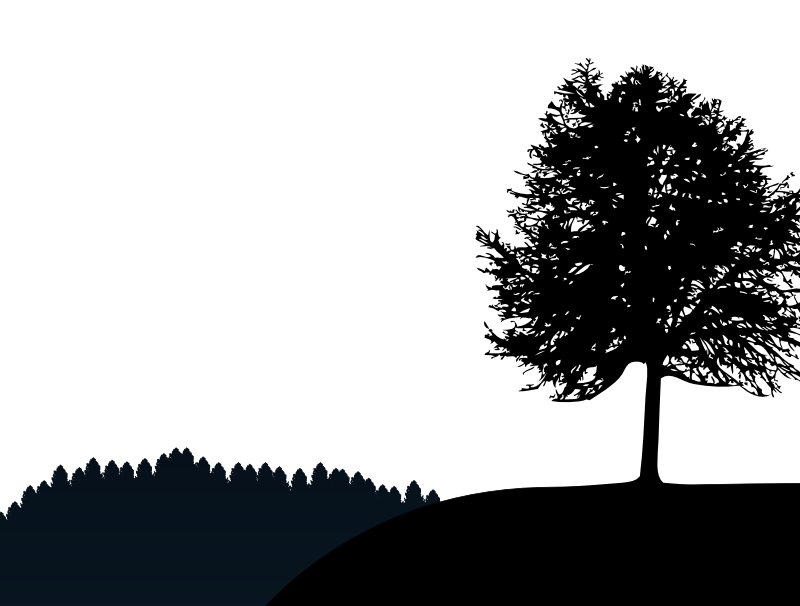
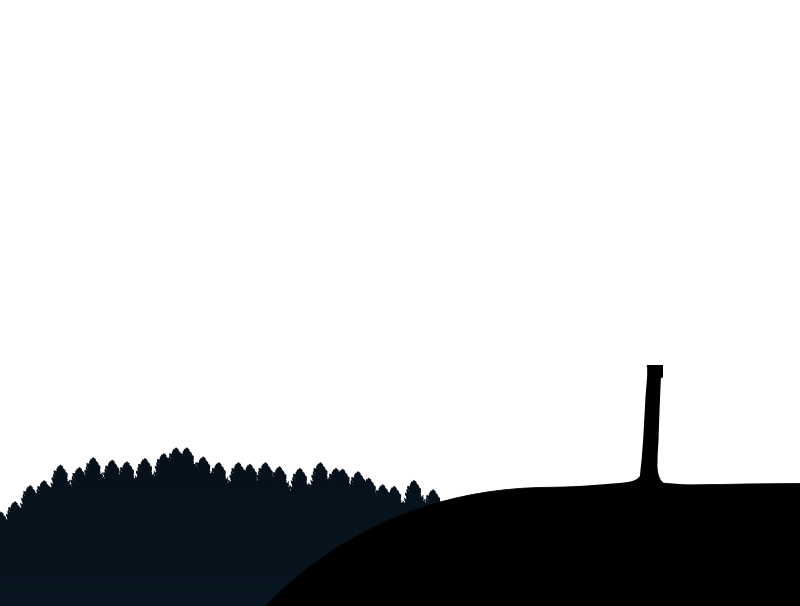
Small fixes

Changed region(s): [[0.5938, 0.0891, 1.0, 0.6832]]

diff --git a/src/main.cpp b/src/main.cpp
@@ -66,7 +66,7 @@ int main()
   FlashLightning lightning(4, sf::Vector2i(800,600), sf::seconds(1.0f), windowSize, sf::Vector2f(200,0));
   
   SoftBody softBody("../graphic/tree_leaves.png");
-  softBody.move(20, 20);
+  softBody.move(476, 58);
   softBody.update();
   
   //text stuff
@@ -90,7 +90,7 @@ int main()
   
   soundManager.playSound();
   text.setString(soundManager.getDisplayText());
-  std::cout << (std::string)soundManager.getDisplayText() << std::endl;
+  
   bool acceptInput(true);
   sf::Clock clock;
   
@@ -111,7 +111,6 @@ int main()
     [&soundManager, &text, &inputStr, &inputDisplay](const sf::Time& /*dt*/)->bool 
     {
       soundManager.next();
-      std::cout << (std::string)soundManager.getDisplayText() << std::endl;
       text.setString(soundManager.getDisplayText());
       soundManager.playSound();
       
@@ -164,6 +163,8 @@ int main()
     
     
     nightsky.update();
+    softBody.velocityRight(-500, 500, 0, 200, -10);
+    softBody.update();
     // Clear the whole window before rendering a new frame
     window.clear(sf::Color(255,255,255));
     
@@ -171,12 +172,31 @@ int main()
     window.draw(nightsky);
     window.draw(text);
     actionList.update(dt);
+    //lightning.update(0.0f); //TODO: need to take dt into account at some point
     acceptInput = actionList.empty();
     framebuffer.clear(sf::Color(0,0,0,0));
+    /*
+    glBlendEquation(GL_MAX);
+    framebuffer.draw(lightning);
+    framebuffer.display();
+    glBlendEquation(GL_FUNC_ADD);
+    window.draw(lightningSprite);
+    */
     window.draw(lightning);
+    /*
+    if (lightning.isFinished() == false) {
+      lightning.update(0.0f); //TODO: need to take dt into account at some point
+      acceptInput = lightning.isFinished() ? true : false;
+      framebuffer.clear(sf::Color(0,0,0,0));
+      glBlendEquation(GL_MAX);
+      framebuffer.draw(lightning);
+      framebuffer.display();
+      glBlendEquation(GL_FUNC_ADD);
+      window.draw(lightningSprite);
+    }*/
     
     window.draw(inputDisplay);
-    //window.draw(softBody);
+    window.draw(softBody);
     // End the current frame and display its contents on screen
     window.display();
   }

diff --git a/src/SoundManager.hpp b/src/SoundManager.hpp
@@ -8,7 +8,7 @@
 struct SoundData {
   sf::String  name;
   std::string filename;
-//  std::vector<sf::String> acceptbaleAnswers;
+  std::vector<sf::String> acceptbaleAnswers;
 };
 
 class SoundManager {
@@ -45,7 +45,7 @@ public:
         acceptbaleAnswers.push_back(sf::String::fromUtf8(strAnswer.begin(), strAnswer.end()));
       }
 
-      result.push_back( {sf::String::fromUtf8(name.begin(), name.end()), file/*, acceptbaleAnswers*/}) ;
+      result.push_back( {sf::String::fromUtf8(name.begin(), name.end()), file, acceptbaleAnswers}) ;
     }
     
     std::random_shuffle(result.begin(), result.end());
@@ -59,10 +59,7 @@ public:
   }
   
   bool acceptableAnswer(sf::String str) const {
-    return str==m_sounds.front().name;
-    
     for(const sf::String& answer: m_sounds.front().acceptbaleAnswers) {
-      //std::cout << (std::string)str << "==" << (std::string)answer << " = "; //<< str == answer << std::endl;
       if(str == answer) return true;
     }
     

diff --git a/src/lightning.cpp b/src/lightning.cpp
@@ -10,7 +10,7 @@ void LightningBolt::generateLightnings()
 {
   const sf::Vector2f begin = sf::Vector2f(m_boltSize.x/2, 0);
   const sf::Vector2f end   = sf::Vector2f(m_boltSize.x/2, m_boltSize.y-1);
-  std::cout << "Bolt from: " << begin << " to " << end << std::endl;
+
   m_lightnings.clear();
   sf::Vector2f perp = sf::Vector2f(1, 0);
   m_lightnings.push_back(Lightning(begin, end, perp, 40, 10, 255));
@@ -21,7 +21,7 @@ void LightningBolt::generateLightnings()
     std::tie(midPoint, width) = m_lightnings[sourceLightning].getRandomPoint();
     const int endY = m_boltSize.y - (rand() % (m_boltSize.y/10));
     const int distanceY = abs(endY - midPoint.y);
-    int endX = midPoint.x + (rand() % (2 * distanceY)) - distanceY;
+    int endX = midPoint.x + (rand() % (2 * distanceY + 1)) - distanceY;
     if(endX < 0) endX = 0;
     if(endX > m_boltSize.x) endX = m_boltSize.x;
     sf::Vector2f  endPoint = sf::Vector2f(endX, endY);

diff --git a/src/tree.cpp b/src/tree.cpp
@@ -37,7 +37,7 @@ int main()
       rectangle.move(1,0);
     }
     softBody.update();
-    //window.draw(softBody);
+    window.draw(softBody);
     if (update) window.draw(rectangle);
     
     // End the current frame and display its contents on screen
